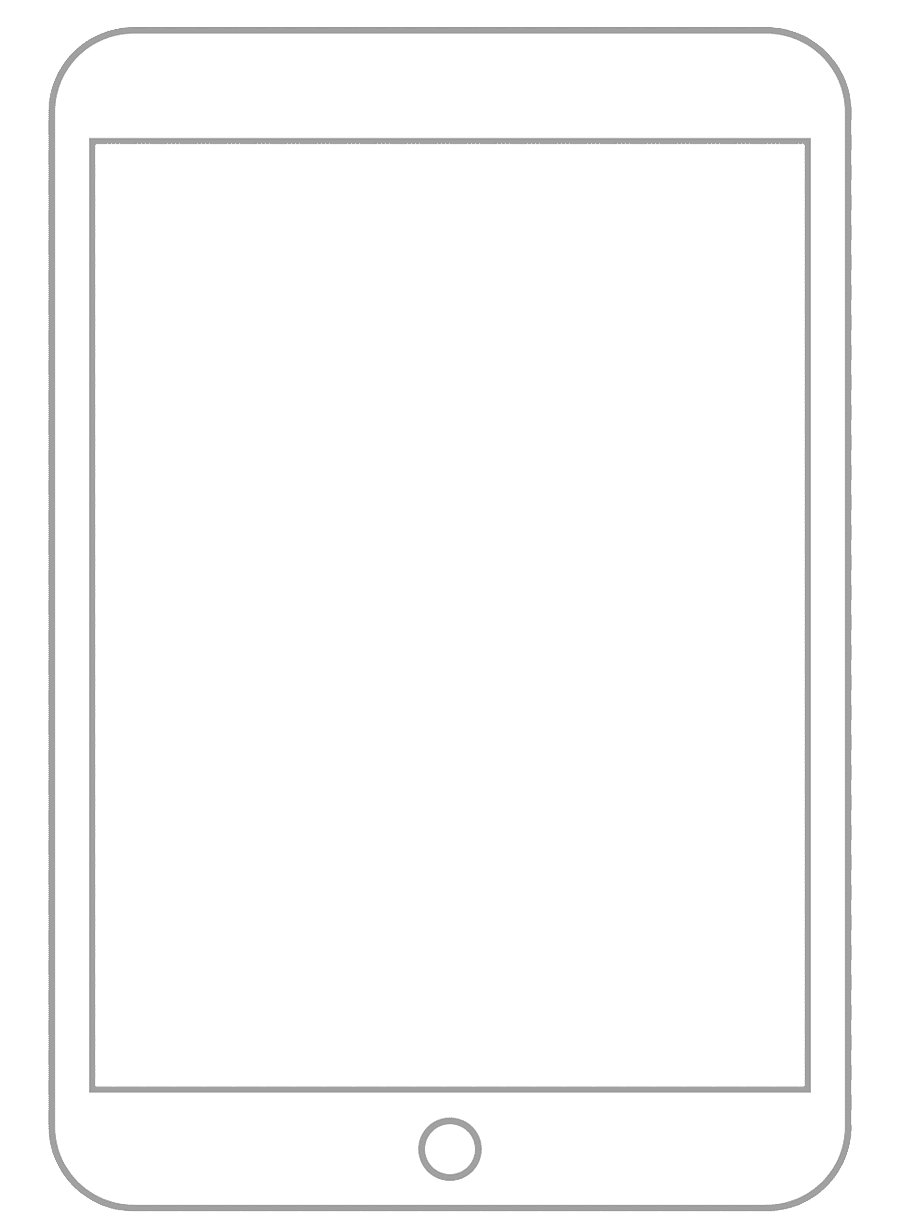
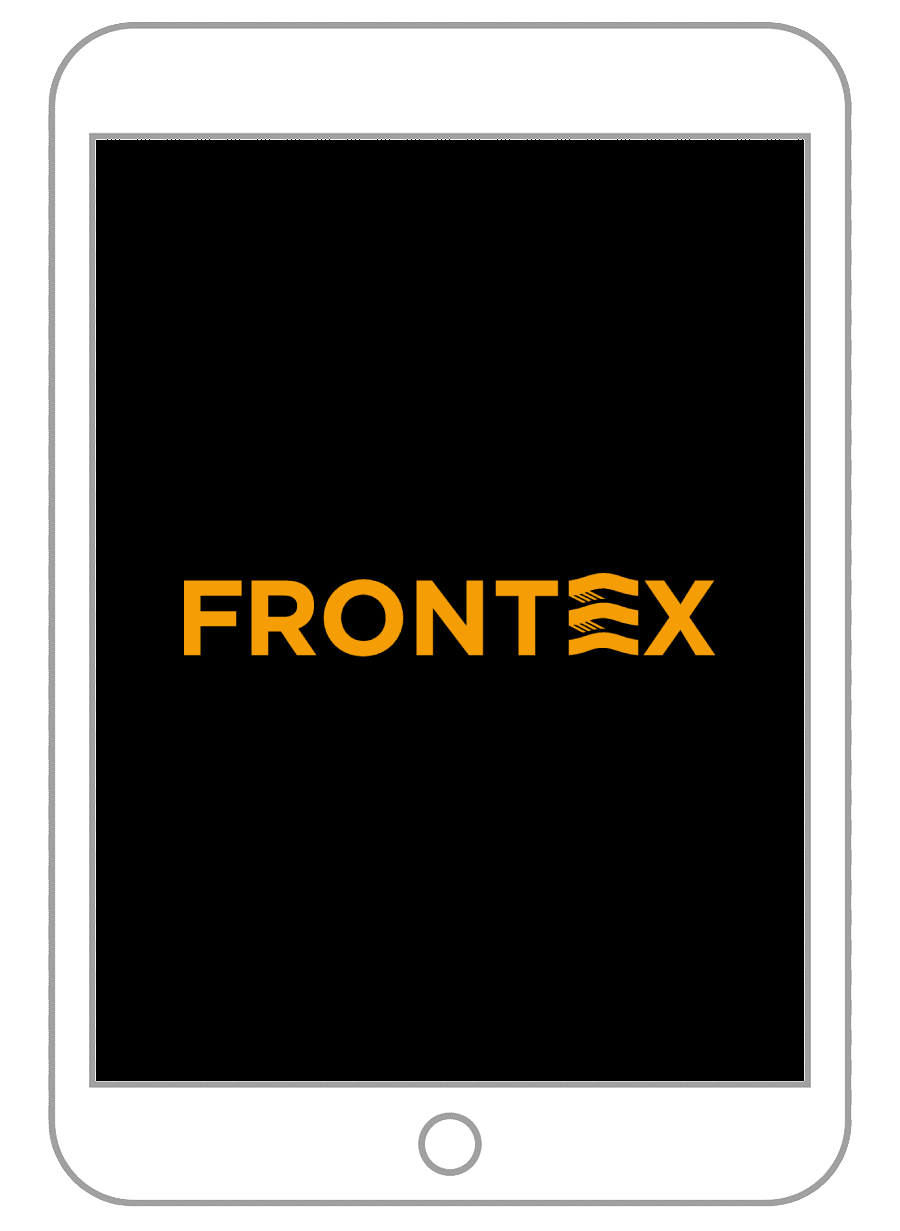
подготовил основу header для стилизации

diff --git a/Testwork/1/index.html b/Testwork/1/index.html
@@ -7,6 +7,28 @@
     <title>Frontex пробная верстка</title>
 </head>
 <body>
-
+    <header>
+        <div class="header-logo-nav">
+            <div class="logo">
+                <img src="img/header-logo.png">
+            </div>
+            <nav>
+                <a href="#">Futures</a>
+                <a href="#">Support</a>
+                <a href="#">Blog</a>
+            </nav>
+        </div>
+        <div class="header-main">
+            <div class="info">
+                <h2>Inspire your inspiration</h2>
+                <p>Lorem ipsum dolor sit amet, consectetur adipisicing elit. A ad aliquam doloribus exercitationem facilis inventore labore mollitia nam natus nihil odio omnis praesentium quam quasi quisquam rerum similique tempore, unde.</p>
+            </div>
+            <div class="info-logo">
+                <img src="img/ipad.png">
+            </div>
+        </div>
+    </header>
+    <main></main>
+    <footer></footer>
 </body>
 </html>

diff --git a/Testwork/1/css/main.css b/Testwork/1/css/main.css
@@ -1,0 +1,40 @@
+* {
+    padding: 0;
+    margin: 0;
+}
+header {
+    background-color: #dab600;
+}
+a {
+    color: #222;
+    text-decoration: none;
+}
+.header-logo-nav {
+    display: flex;
+    justify-content: space-around;
+    padding-top: 30px;
+}
+.logo img {
+    width: 200px;
+}
+nav {
+    display: flex;
+    gap: 50px;
+    font-family: Arial, serif;
+    font-weight: bold;
+    font-size: 20px;
+}
+.header-main {
+    display: flex;
+    justify-content: center;
+
+}
+.info {
+    border: 1px solid;
+}
+.info-logo {
+    border: 1px solid;
+}
+.info-logo img {
+    width: 40%;
+}
